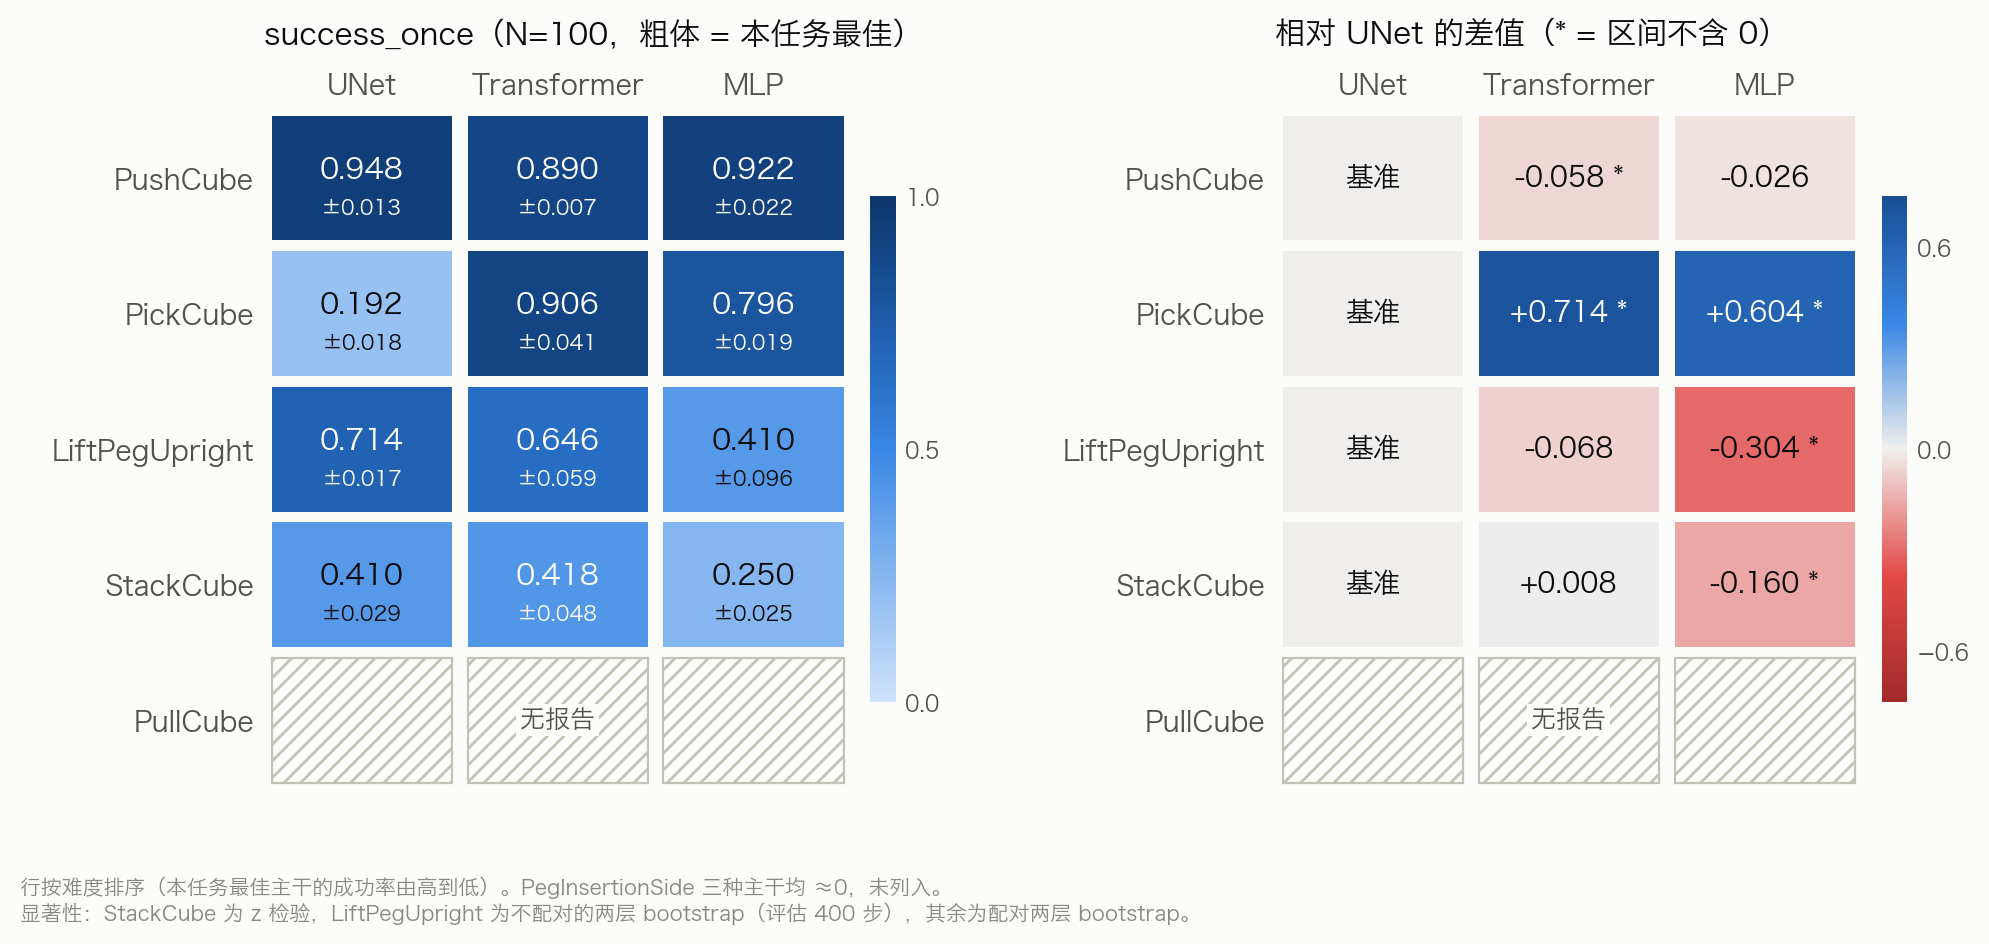
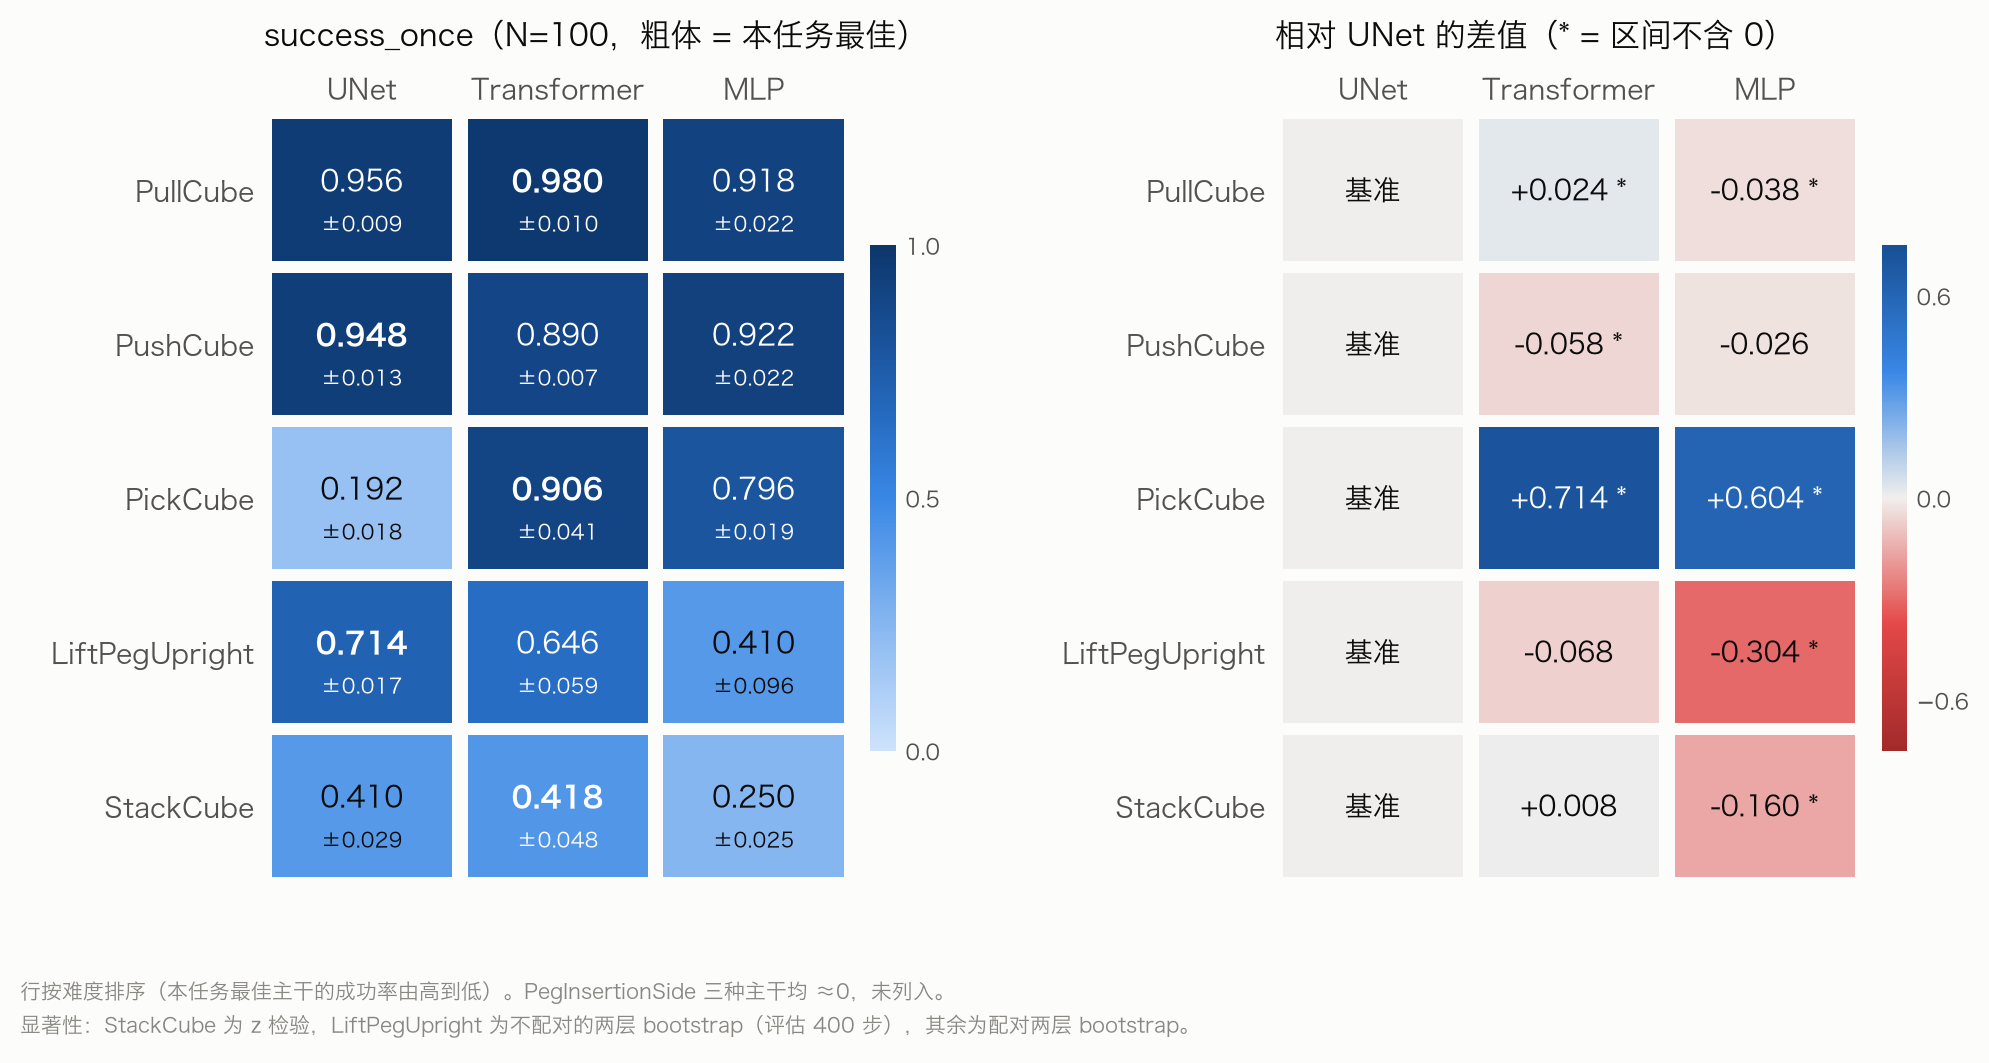
docs(results): add PullCube (Task 4) to the cross-task summary
PullCube's Task 4 report (26 runs) fills the last empty row: data size
0.767 → 0.972 (N=25–200, N=400 not triggered) and N=100 backbones
T 0.980 > U 0.956 > M 0.918, both gaps significant. Add it to every
table, the difficulty ordering and all three cross-task figures, drop
the "no report" placeholder, and correct the claim that Transformer is
never last on success_once (it is last on PushCube).

diff --git a/scripts/plot_cross_task.py b/scripts/plot_cross_task.py
@@ -23,7 +23,8 @@ MUTED = "#898781"
 GRID = "#e1e0d9"
 AXIS = "#c3c2b7"
 
-TASK_COLOR = {  # categorical slots 1-5, fixed order
+TASK_COLOR = {  # categorical slots 1-6, fixed order
+    "PullCube": "#7d4fc2",
     "PushCube": "#2a78d6",
     "PickCube": "#eb6834",
     "StackCube": "#1baf7a",
@@ -77,6 +78,12 @@ DATA_SIZE = {
         100: mean_sd([0.96, 0.96, 0.94, 0.95, 0.93]),
         200: mean_sd([0.94, 0.97, 0.97, 0.98, 0.94]),
     },
+    "PullCube": {  # per-seed values from the PullCube Task 4 report (pullcube_test_results.csv)
+        25: mean_sd([0.78, 0.76, 0.76]),
+        50: mean_sd([0.91, 0.91, 0.92]),
+        100: mean_sd([0.96, 0.96, 0.94, 0.96, 0.96]),
+        200: mean_sd([0.97, 0.97, 0.98, 0.97, 0.97]),
+    },
     "LiftPegUpright": {25: (0.070, 0.010), 50: (0.363, 0.031), 100: (0.674, 0.021),
                        200: (0.748, 0.028), 400: (0.792, 0.008)},
     "StackCube": {25: (0.017, 0.012), 50: (0.123, 0.025), 100: (0.410, 0.029), 200: (0.660, 0.031),
@@ -87,13 +94,16 @@ DATA_SIZE = {
                  200: (0.452, 0.031), 400: (0.534, 0.021)},
 }
 PEG_VAL = {25: 0.0, 50: 0.0, 100: 0.0, 200: 0.008}  # val split, 50 episodes
-HORIZON = {"PushCube": 100, "PickCube": 100, "StackCube": 200, "PlaceSphere": 200, "LiftPegUpright": 200}
+HORIZON = {"PullCube": 100, "PushCube": 100, "PickCube": 100, "StackCube": 200, "PlaceSphere": 200, "LiftPegUpright": 200}
 
 # Track B: N=100. Tasks ordered easy → hard by the best backbone's success.
-BB_TASKS = ["PushCube", "PickCube", "LiftPegUpright", "StackCube", "PegInsertionSide"]
-BB_TICK = {"PushCube": "PushCube\n(易)", "PickCube": "PickCube", "LiftPegUpright": "LiftPeg-\nUpright",
+BB_TASKS = ["PullCube", "PushCube", "PickCube", "LiftPegUpright", "StackCube", "PegInsertionSide"]
+BB_TICK = {"PullCube": "PullCube\n(易)", "PushCube": "PushCube", "PickCube": "PickCube", "LiftPegUpright": "LiftPeg-\nUpright",
            "StackCube": "StackCube", "PegInsertionSide": "Peg-\nInsertion(难)"}
 BB_ONCE = {
+    "PullCube": {"UNet": mean_sd([0.96, 0.96, 0.94, 0.96, 0.96]),
+                 "Transformer": mean_sd([0.98, 0.97, 0.97, 0.99, 0.99]),
+                 "MLP": mean_sd([0.90, 0.93, 0.93, 0.89, 0.94])},
     "PushCube": {"UNet": mean_sd([0.96, 0.96, 0.94, 0.95, 0.93]),
                  "Transformer": mean_sd([0.89, 0.90, 0.88, 0.89, 0.89]),
                  "MLP": mean_sd([0.95, 0.92, 0.92, 0.89, 0.93])},
@@ -110,6 +120,9 @@ BB_ONCE = {
                          "MLP": (0.0, 0.0)},
 }
 BB_END = {  # PushCube reports means only
+    "PullCube": {"UNet": mean_sd([0.96, 0.96, 0.94, 0.96, 0.96]),
+                 "Transformer": mean_sd([0.98, 0.97, 0.97, 0.99, 0.99]),
+                 "MLP": mean_sd([0.90, 0.91, 0.93, 0.89, 0.94])},
     "PushCube": {"UNet": (0.54, None), "Transformer": (0.63, None), "MLP": (0.67, None)},
     "PickCube": {"UNet": mean_sd([0.13, 0.13, 0.12, 0.14, 0.12]),
                  "Transformer": mean_sd([0.85, 0.76, 0.84, 0.74, 0.79]),
@@ -122,6 +135,7 @@ BB_END = {  # PushCube reports means only
 }
 # Difference vs UNet and whether the report's test says the interval excludes 0.
 BB_DELTA_SIG = {
+    "PullCube": {"Transformer": True, "MLP": True},
     "PushCube": {"Transformer": True, "MLP": False},
     "PickCube": {"Transformer": True, "MLP": True},
     "LiftPegUpright": {"Transformer": False, "MLP": True},  # unpaired bootstrap, computed here
@@ -165,7 +179,7 @@ def fig_datasize(out: Path):
 
     # Direct labels at line ends, nudged apart where they would collide.
     ends = {t: (max(DATA_SIZE[t]), DATA_SIZE[t][max(DATA_SIZE[t])][0]) for t in DATA_SIZE}
-    nudge = {"PushCube": 0.025, "StackCube": 0.03, "PlaceSphere": 0.0, "LiftPegUpright": -0.03, "PickCube": -0.01}
+    nudge = {"PullCube": 0.03, "PushCube": -0.025, "StackCube": 0.03, "PlaceSphere": 0.0, "LiftPegUpright": -0.03, "PickCube": -0.01}
     for t, (n, p) in ends.items():
         ax.annotate(t, (n, p + nudge[t]), xytext=(7, 0), textcoords="offset points",
                     color=INK, fontsize=9, va="center")
@@ -177,7 +191,7 @@ def fig_datasize(out: Path):
     ax.set_xlabel("训练示范数 N（log 刻度）")
     ax.set_ylabel("success_once（test，100 回合）")
     ax.set_title("UNet 数据量曲线：形状相近，难度决定曲线位置", loc="left")
-    ax.legend(loc="lower right", bbox_to_anchor=(1.0, 0.1), fontsize=8, ncol=1, handlelength=2.2)
+    ax.legend(loc="center left", bbox_to_anchor=(1.12, 0.5), fontsize=8, ncol=1, handlelength=2.2)
     fig.text(0.01, -0.02, "阴影 = 训练 seed 间 SD（N=25/50 为 3 seed，N≥100 为 5 seed）。"
              "各任务控制模式与回合长度不同，只比较形状与位置。", color=MUTED, fontsize=7.5)
     fig.savefig(out / "cross_task_datasize.png")
@@ -190,8 +204,8 @@ def _cell_text_color(rgba):
 
 
 def fig_backbone_heatmap(out: Path):
-    rows = ["PushCube", "PickCube", "LiftPegUpright", "StackCube", "PullCube"]
-    fig, (ax1, ax2) = plt.subplots(1, 2, figsize=(10.6, 4.4), gridspec_kw={"wspace": 0.6})
+    rows = ["PullCube", "PushCube", "PickCube", "LiftPegUpright", "StackCube"]
+    fig, (ax1, ax2) = plt.subplots(1, 2, figsize=(10.6, 5.0), gridspec_kw={"wspace": 0.6})
     seq = LinearSegmentedColormap.from_list("seq", BLUE_RAMP)
     div = LinearSegmentedColormap.from_list("div", DIVERGING)
     seq_norm, div_norm = Normalize(0, 1), Normalize(-0.75, 0.75)
@@ -208,13 +222,6 @@ def fig_backbone_heatmap(out: Path):
 
     for i, task in enumerate(rows):
         for j, bb in enumerate(BACKBONES):
-            for ax in (ax1, ax2):
-                if task == "PullCube":
-                    ax.add_patch(Rectangle((j + 0.04, i + 0.04), 0.92, 0.92, fc=SURFACE,
-                                               ec=AXIS, hatch="////", lw=0.8))
-                    continue
-            if task == "PullCube":
-                continue
             m, s = BB_ONCE[task][bb]
             best = max(BB_ONCE[task][b][0] for b in BACKBONES)
             fc = seq(seq_norm(m))
@@ -233,10 +240,6 @@ def fig_backbone_heatmap(out: Path):
                 label = f"{d:+.3f}" + (" *" if BB_DELTA_SIG[task][bb] else "")
             ax2.text(j + 0.5, i + 0.5, label, ha="center", va="center", color=_cell_text_color(fc),
                      fontsize=10)
-    for ax in (ax1, ax2):
-        ax.text(1.5, rows.index("PullCube") + 0.5, "无报告", ha="center", va="center", color=INK2, fontsize=9,
-                bbox=dict(fc=SURFACE, ec="none", pad=1.5))
-
     ax1.set_title("success_once（N=100，粗体 = 本任务最佳）", loc="left", pad=24)
     ax2.set_title("相对 UNet 的差值（* = 区间不含 0）", loc="left", pad=24)
     for ax, cmap, norm, ticks in ((ax1, seq, seq_norm, [0, 0.5, 1]), (ax2, div, div_norm, [-0.6, 0, 0.6])):
@@ -250,7 +253,7 @@ def fig_backbone_heatmap(out: Path):
 
 
 def fig_difficulty(out: Path):
-    fig, axes = plt.subplots(1, 3, figsize=(15, 4.2), gridspec_kw={"wspace": 0.22})
+    fig, axes = plt.subplots(1, 3, figsize=(16.5, 4.2), gridspec_kw={"wspace": 0.22})
     x = np.arange(len(BB_TASKS))
     offset = {"UNet": -0.18, "Transformer": 0.0, "MLP": 0.18}
 
@@ -276,7 +279,7 @@ def fig_difficulty(out: Path):
     # Relative to the best backbone on the same task; Peg is all ~0 so it is excluded.
     ax = axes[2]
     ax.grid(axis="y")
-    rel_tasks = BB_TASKS[:4]
+    rel_tasks = BB_TASKS[:5]
     xr = np.arange(len(rel_tasks))
     for bb in BACKBONES:
         rel = [BB_ONCE[t][bb][0] / max(BB_ONCE[t][b][0] for b in BACKBONES) for t in rel_tasks]
@@ -284,11 +287,11 @@ def fig_difficulty(out: Path):
         ax.annotate(f"{bb} {rel[-1]:.2f}", (xr[-1], rel[-1]), xytext=(8, {"UNet": -9, "Transformer": 7, "MLP": 0}[bb]),
                     textcoords="offset points", color=INK, fontsize=8.5, va="center")
     ax.set_xticks(xr, [BB_TICK[t] for t in rel_tasks[:-1]] + ["StackCube\n(难)"], fontsize=8.5)
-    ax.set_xlim(-0.3, 3.9)
+    ax.set_xlim(-0.3, 4.9)
     ax.set_ylim(0, 1.08)
     ax.set_title("相对本任务最佳主干（success_once）", loc="left")
     fig.text(0.01, -0.06, "误差棒 = 5 个训练 seed 的 SD（PushCube 与 PegInsertion 的 success_at_end 无 SD）。"
-             "任务按最佳主干成功率排序作为难度代理；只有 4 个可区分的任务，趋势仅供参考。LiftPegUpright 评估 400 步。",
+             "任务按最佳主干成功率排序作为难度代理；只有 5 个可区分的任务，趋势仅供参考。LiftPegUpright 评估 400 步。",
              color=MUTED, fontsize=7.5)
     fig.savefig(out / "cross_task_difficulty.png")
     plt.close(fig)
